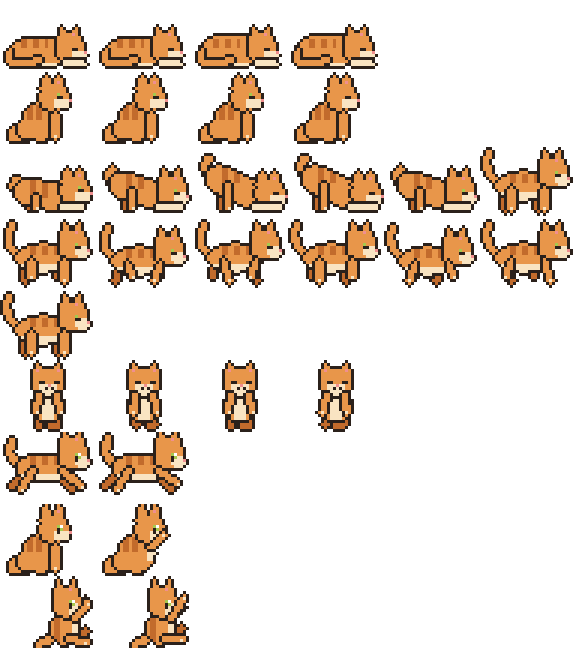
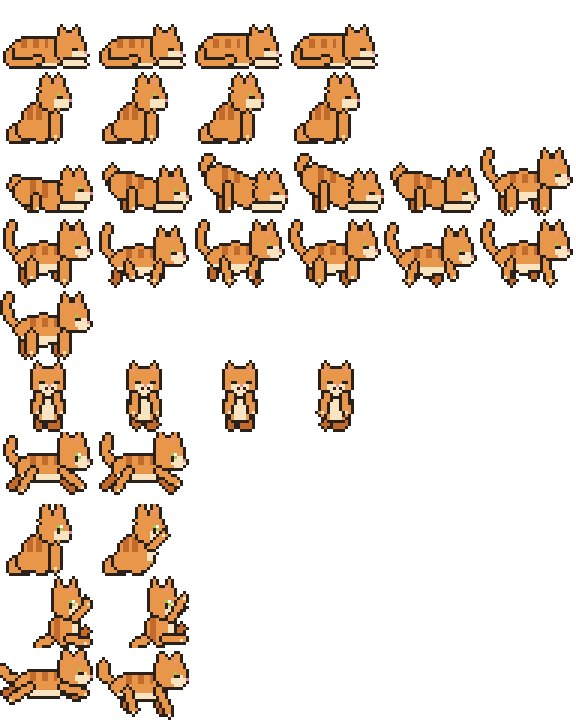
Cat: leap back in from the side for the next question
Replaces the drop from the top: when a question arrives while the cat is
gone, it springs in from beyond the side edge nearer to where it blasted
off, in a ~0.65 s arc (~140 px high), lands ~225 px inside the edge, and
only then grows the bubble. New two-frame leap sprite (stretched pounce
on the way up, paws reaching for the floor on the way down).

Claude-Session: https://claude.ai/code/session_01CGU6xUQwvytX1pokqNaFz4

diff --git a/view/cat.qml b/view/cat.qml
@@ -54,6 +54,9 @@ ShellRoot {
         readonly property real slideAccel: 260 // px/s^2 down the wall
         readonly property real slideMax: 420   // px/s
         readonly property real launchSpeed: 1800 // upward throw that sends it off-screen, px/s
+        // the jump back in: ~0.65 s arc, ~140 px high, landing ~225 px inside the edge
+        readonly property real leapVx: 490
+        readonly property real leapVy: 850
         readonly property real floorY: height - catH
         readonly property string assetsDir: {
             const u = Qt.resolvedUrl(".").toString().replace("file://", "")
@@ -66,6 +69,7 @@ ShellRoot {
         // ------------------------------------------------------------- state
         // sleep | wake | walk | sit | held | fall | wallslide | land | alert
         // | launched (thrown off the top) | gone (hidden until the next ask)
+        // | leap (jumping back in from a side edge for a question)
         property string mode: "sleep"
         property real vx: 0
         property real vy: 0
@@ -125,7 +129,7 @@ ShellRoot {
         // physics + walking, one step per rendered frame
         FrameAnimation {
             running: win.mode === "fall" || win.mode === "walk" || win.mode === "wallslide"
-                     || win.mode === "held" || win.mode === "launched"
+                     || win.mode === "held" || win.mode === "launched" || win.mode === "leap"
             onTriggered: {
                 const dt = Math.min(frameTime, 0.05)
                 if (win.mode === "held") {
@@ -182,6 +186,25 @@ ShellRoot {
                         twinkle.x = cat.x + cat.width / 2 - twinkle.width / 2
                         twinkle.restart()
                         win.setMode("gone")
+                    }
+                    return
+                }
+                if (win.mode === "leap") {
+                    // a plain ballistic arc from beyond the side edge; no wall
+                    // clamping, since it starts off-screen
+                    win.vy += win.gravity * dt
+                    cat.x += win.vx * dt
+                    cat.y += win.vy * dt
+                    if (win.vy > 0 && cat.y >= win.floorY) {
+                        cat.y = win.floorY
+                        squash.impact = 0.45
+                        squash.restart()
+                        win.vx = 0; win.vy = 0
+                        win.setMode("land")
+                        if (win.entering) {
+                            win.entering = false
+                            win.showBubble()
+                        }
                     }
                     return
                 }
@@ -443,12 +466,16 @@ ShellRoot {
             asking = true
             closing.stop()
             if (mode === "gone" || mode === "launched") {
-                // drop back in from the top, above where it left
+                // jump back in from the side nearer to where it left
                 entering = true
                 cat.spin = 0
-                cat.y = -catH
-                vx = 0; vy = 0
-                setMode("fall")
+                const fromLeft = cat.x + catW / 2 < width / 2
+                cat.facing = fromLeft ? 1 : -1
+                cat.x = fromLeft ? -catW : width
+                cat.y = floorY
+                vx = fromLeft ? leapVx : -leapVx
+                vy = -leapVy
+                setMode("leap")
                 return
             }
             if (["sleep", "sit", "wake", "walk", "land"].indexOf(mode) >= 0) setMode("alert")

diff --git a/assets/make_cat.py b/assets/make_cat.py
@@ -312,6 +312,36 @@ def wall(k=0):
     return stack(back, body, hd, front)
 
 
+def leap(k=0):
+    """Jumping in from the side, facing right. k=0 on the way up: stretched
+    out, front paws forward, hind legs pushing off behind. k=1 on the way
+    down: front paws reaching for the floor, hind legs tucking under."""
+    back, body, hd, front = Canvas(), Canvas(), Canvas(), Canvas()
+    by = 11 + k
+    if k == 0:
+        leg(back, (19, by + 2), (26, by + 5), "D")
+        leg(back, (8.5, by + 2), (2, by + 4), "D")
+        back.line([(6, by), (2.5, by - 1.5), (0.8, by - 4)], 2.4, "B")
+    else:
+        leg(back, (19, by + 2), (22, by + 9), "D")
+        leg(back, (8.5, by + 2), (10.5, by + 8), "D")
+        back.line([(6, by), (2.5, by - 3), (2.5, by - 6.5)], 2.4, "B")
+    body.disc(14.5, by + 1, 9.6, 4.2, "B")
+    stripes(body, {10, 11, 14, 15, 18}, by - 3, by - 1)
+    belly(body, by + 3)
+    h = head(hd, 25, by - 3)
+    if k == 0:
+        leg(front, (21, by + 2), (28.5, by + 4))
+        leg(front, (10.5, by + 2), (3.5, by + 6))
+    else:
+        leg(front, (21, by + 2), (24.5, by + 10))
+        leg(front, (10.5, by + 2), (12.5, by + 9))
+    for l in (back, body, hd, front):
+        l.outline()
+    face(hd, (h[0], h[1], "open", False))
+    return stack(back, body, hd, front)
+
+
 # ------------------------------------------------------------ animations
 # name -> (frames, fps, loop). Facing right; QML mirrors for left.
 ANIMS = {
@@ -324,6 +354,8 @@ ANIMS = {
     "fall": ([fall(0), fall(1)], 8, True),
     "alert": ([sit(eyes="wide", ears=1), sit(eyes="wide", ears=1, paw=True)], 3, True),
     "wallslide": ([wall(0), wall(1)], 6, True),
+    # 2 frames at 3 fps: the switch lands near the apex of the ~0.65 s leap
+    "leap": ([leap(0), leap(1)], 3, False),
 }
 
 
